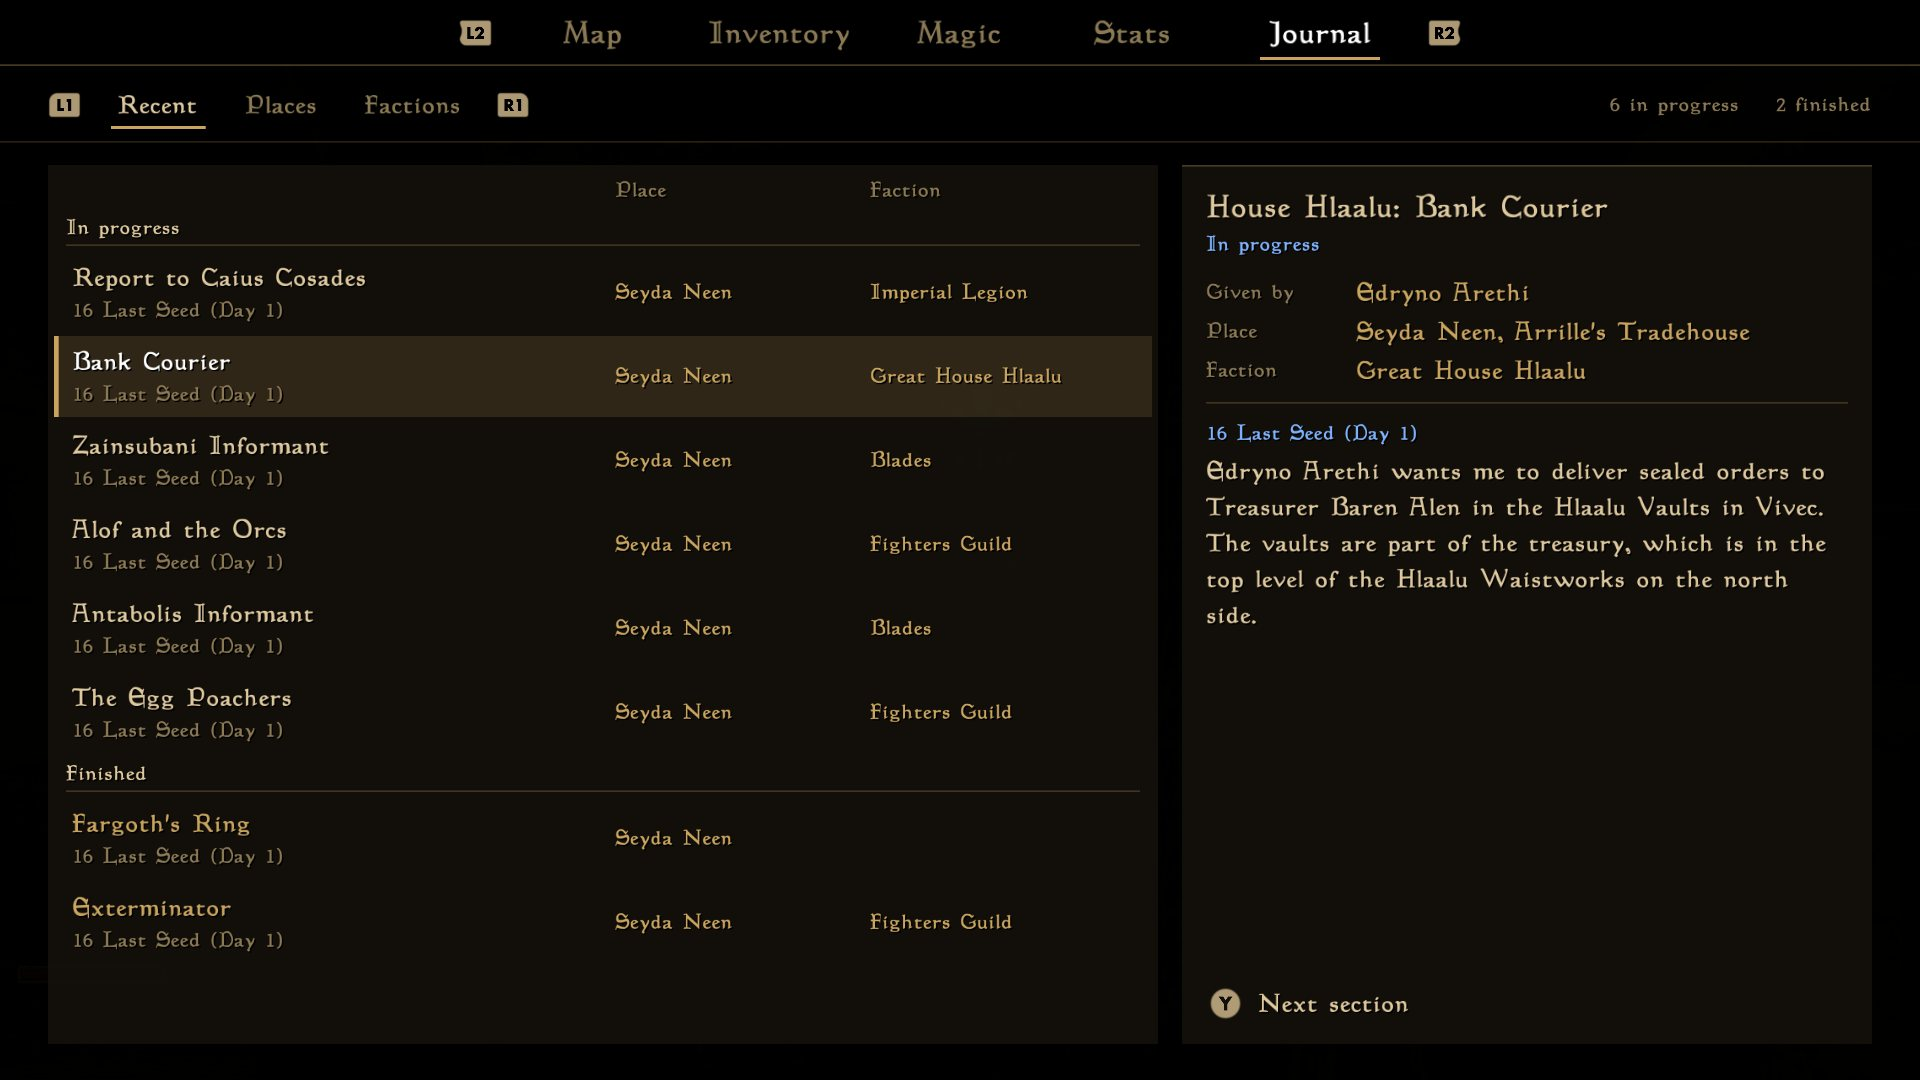
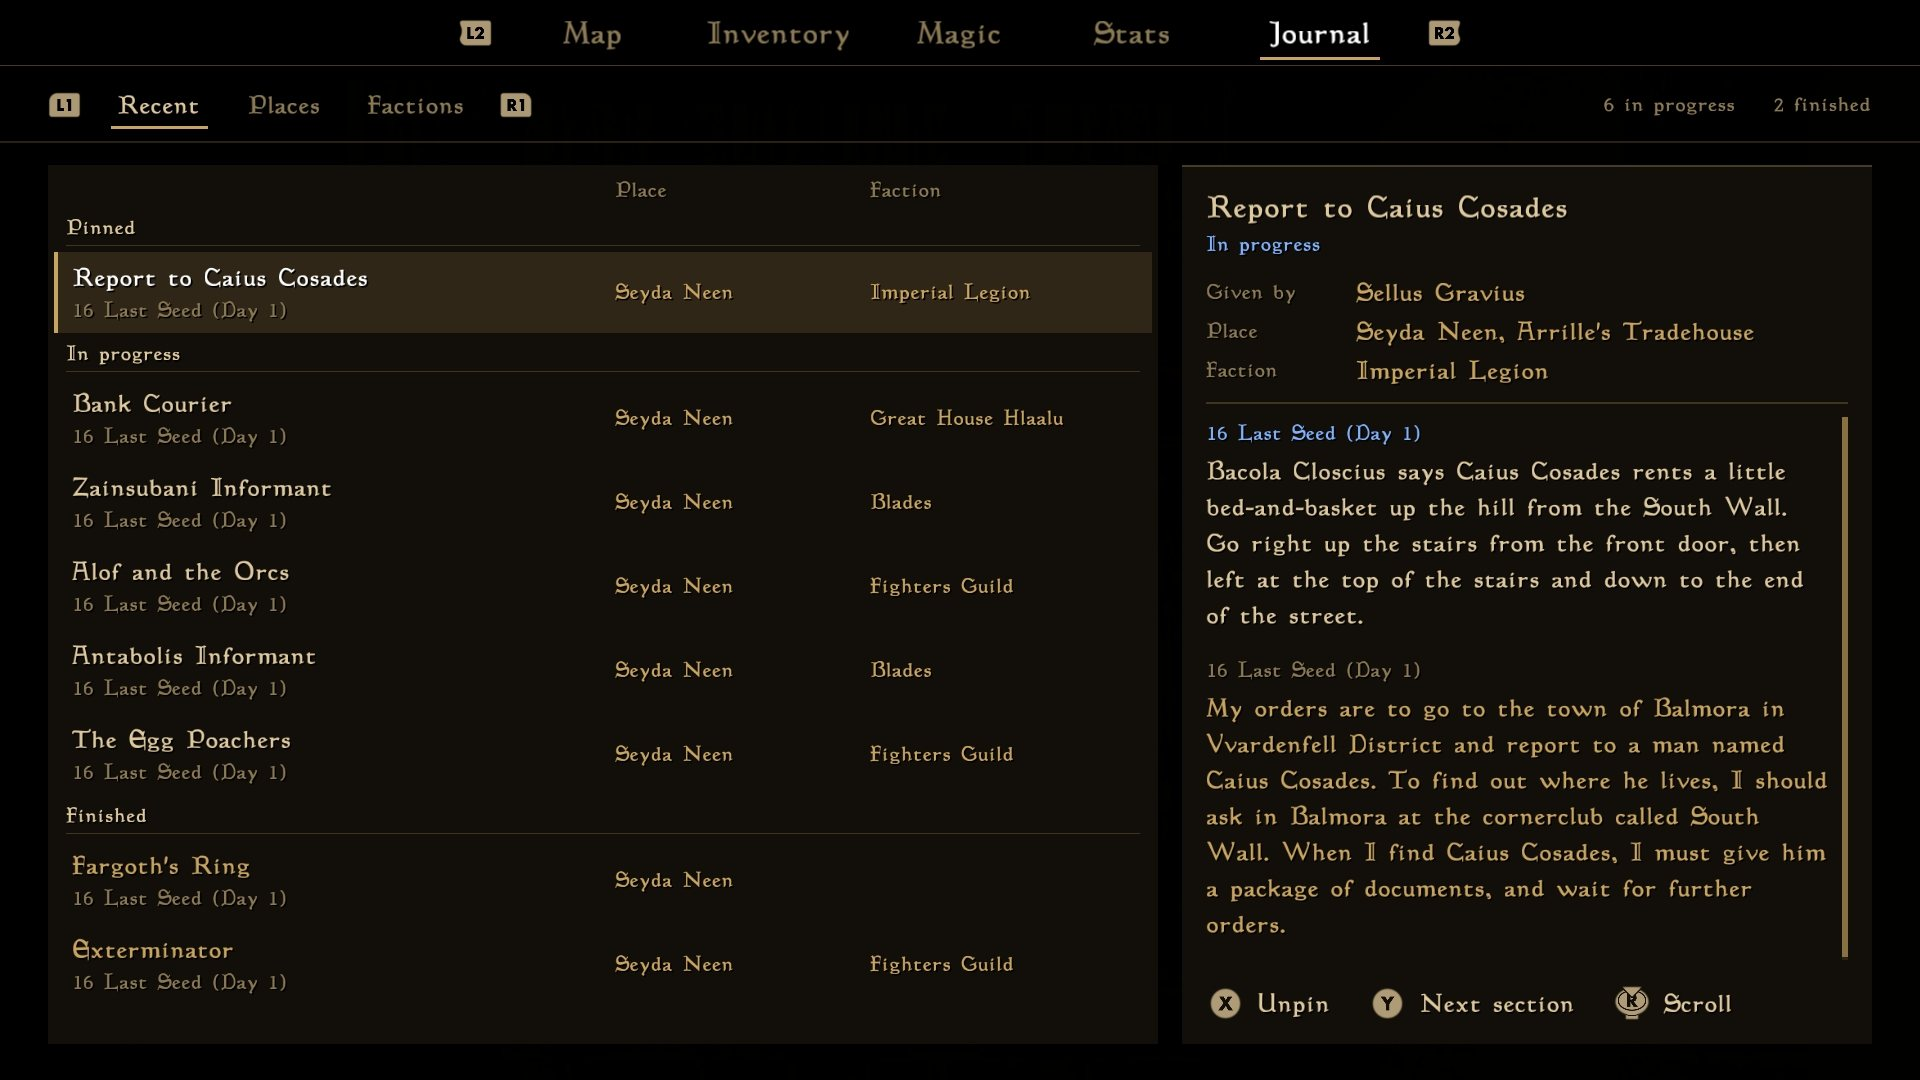
Show a pinned quest in the README's journal screenshot
The README's journal screenshot and text didn't show that quests can
be pinned. The screenshot now has a quest pinned above the quests in
progress, and the text says the journal groups quests by pin, active
or finished. The Run Fatigue entry is now shorter.

diff --git a/README.md b/README.md
@@ -56,9 +56,9 @@ The local map is now a 3D view of the world. You can pan (right stick) and zoom 
 
 ### Journal
 
-![The journal, with quests in progress and finished, and the details of one](ui-rework/screenshots/journal.jpg)
+![The journal, with a pinned quest above the quests in progress and finished, and the details of the pinned one](ui-rework/screenshots/journal.jpg)
 
-The journal is a list of quests rather than a book. Quests in progress come first, then finished ones, sorted by when they last changed, or grouped by place or by faction. The details show who gave you the quest, where, and every entry, newest first.
+The journal is a list of quests rather than a book, grouped by pin, active, or finished.
 
 ### Conversations and trading
 
@@ -142,7 +142,7 @@ Optional improvements
 
 These options change the gameplay, so they're off by default. Turn them on in the Prefs tab of the options.
 
-- **Run Fatigue.** Walking is harder with a control stick than with a key, since it means holding the stick only part of the way, so you end up running more and running out of fatigue. Run Fatigue lowers how much fatigue running costs, to 50%, 25% or none at all. It's 100% by default, which keeps Morrowind's rules.
+- **Run Fatigue.** Walking is annoying with a controller, so this option lets you reduce run fatigue to 50%, 25%, or 0%. It defaults to the vanilla 100%.
 
 Trying it
 ---------
